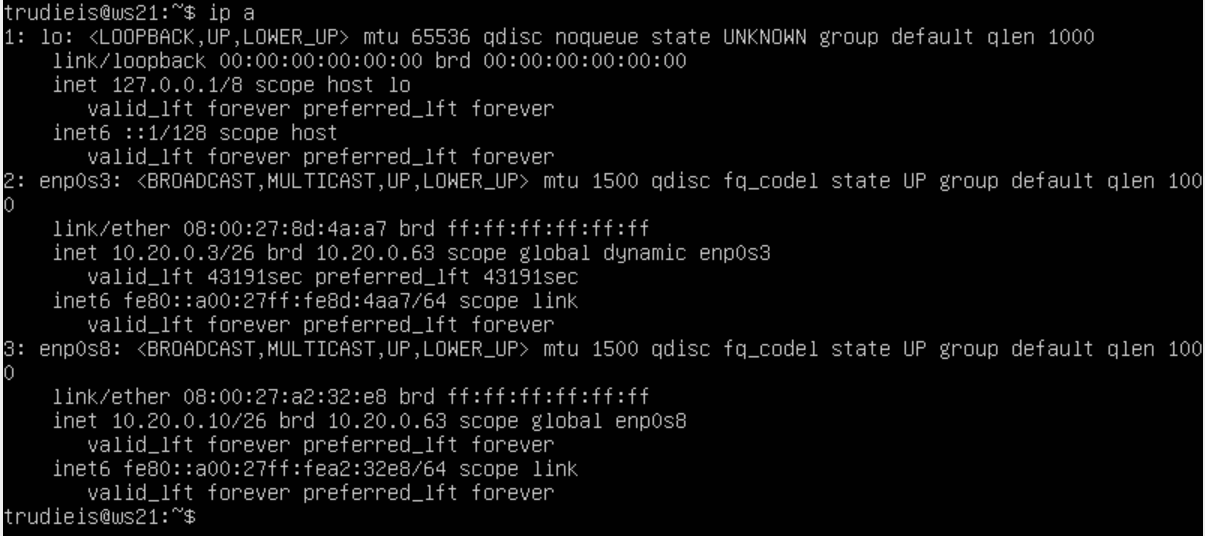
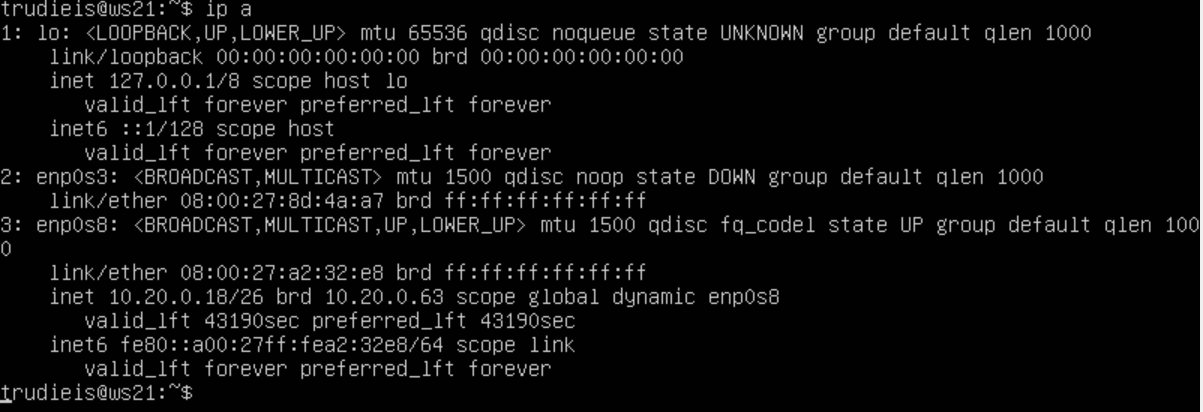
add solution

Changed region(s): [[0.0, 0.0, 1.0, 0.9903]]

diff --git a/src/report.md b/src/report.md
@@ -167,7 +167,7 @@ C: 192.168.0.0~192.168.255.255.
   ![ws22_ip_r](screen/ws22_ip_r.png)
   ![r1_ip_r](screen/r1_ip_r.png)
   ![r2_ip_r](screen/r2_ip_r.png)
-
+dhcpd.png
 #### Пропинговать с ws11 роутер r2 и показать на r2, что пинг доходит. 
   ![ws11_tcpdump](screen/ws11_tcpdump.png)
   ![r2_tcpdump](screen/r2_tcpdump.png)
@@ -221,9 +221,64 @@ ping -c 1 10.30.0.111
   ![r2_dhcp_restart](screen/r2_dhcp_restart.png)
 
 #### в файле resolv.conf прописать nameserver 8.8.8.8.
+  
   ![r2_resolv](screen/r2_resolv.png)
 
 #### Машину ws21 перезагрузить при помощи reboot и через ip a показать, что она получила адрес. 
+  
   ![ws21_dhcp](screen/ws21_dhcp.png)
+  ![ws22_dhcp](screen/ws22_dhcp.png)
+
 #### Также пропинговать ws22 с ws21.
+  
   ![ws21_ping](screen/ws21_ping_ws22.png)
+
+## Установить DHCP на машину r1
+
+  ![r1_macaddress](screen/r1_macaddress.png)
+  ![r1_resolv](screen/r1_resolv_conf.png)
+
+#### Указать MAC адрес у ws11
+
+  ![ws11_macaddress](screen/ws11_macaddress.png)
+
+#### Показать адрес до
+
+  ![ws11_befor_static](screen/ws11_before_static.png)
+
+#### Показать после
+  
+  ![ws11_static_ip](screen/ws11_static_mac_ip.png)
+
+#### Получить айпи по DHCP
+
+  ![ws21_dhclient](screen/ws21_dhclient.png)
+
+## Part 7. NAT
+#### r1 изменяем конфиг
+  
+  ![r1_apache_conf](screen/r1_apache_conf.png)
+
+#### ws22 изменяем конфиг 
+  
+  ![ws22_apache_conf](screen/ws22_apache2_conf.png)
+
+#### r1 запуск сервера
+
+  ![r1_apache_start](screen/r1_apache2_start.png)
+
+#### ws22 запуск сервера
+
+  ![ws22_apache_start](screen/ws22_apache2_start.png)
+
+#### Правила для iptables2
+
+  ![r2_appache_iptables](screen/r2_firewall_apache2.png)
+
+#### Пропинговать ws22 с r1
+
+  ![r1_ping_ws22](screen/r1_ping_ws22.png)
+
+#### Добавить новое правило для ICMP
+
+  [r2_firewall_icmp](screen/r2_firewall_icmp.png)
